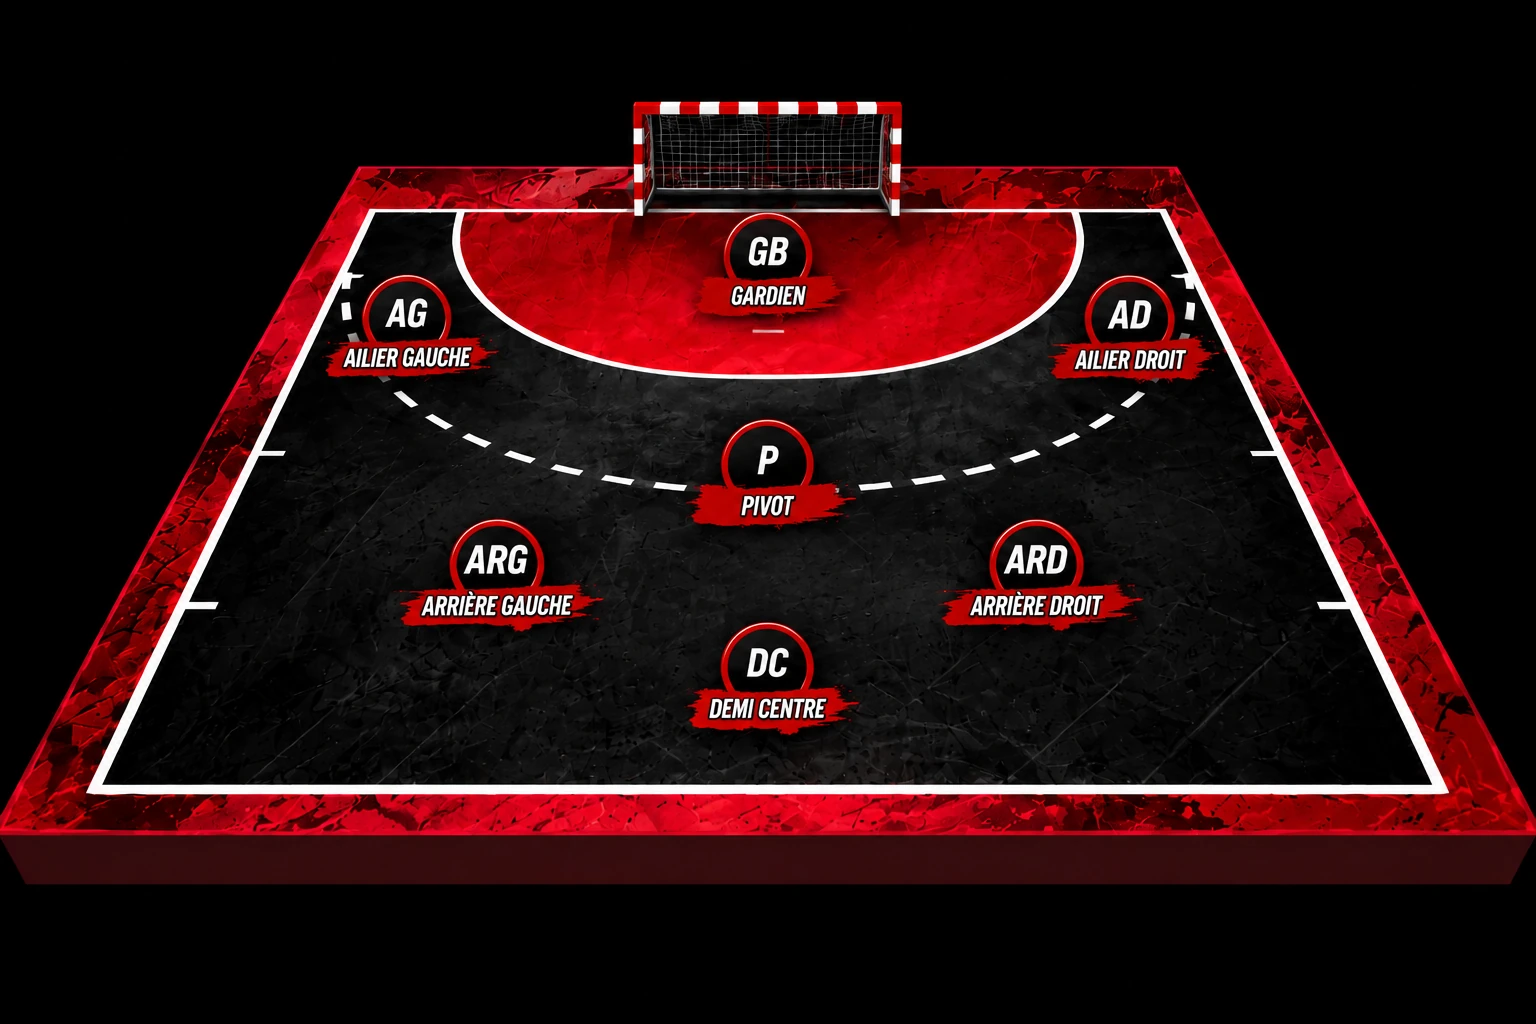
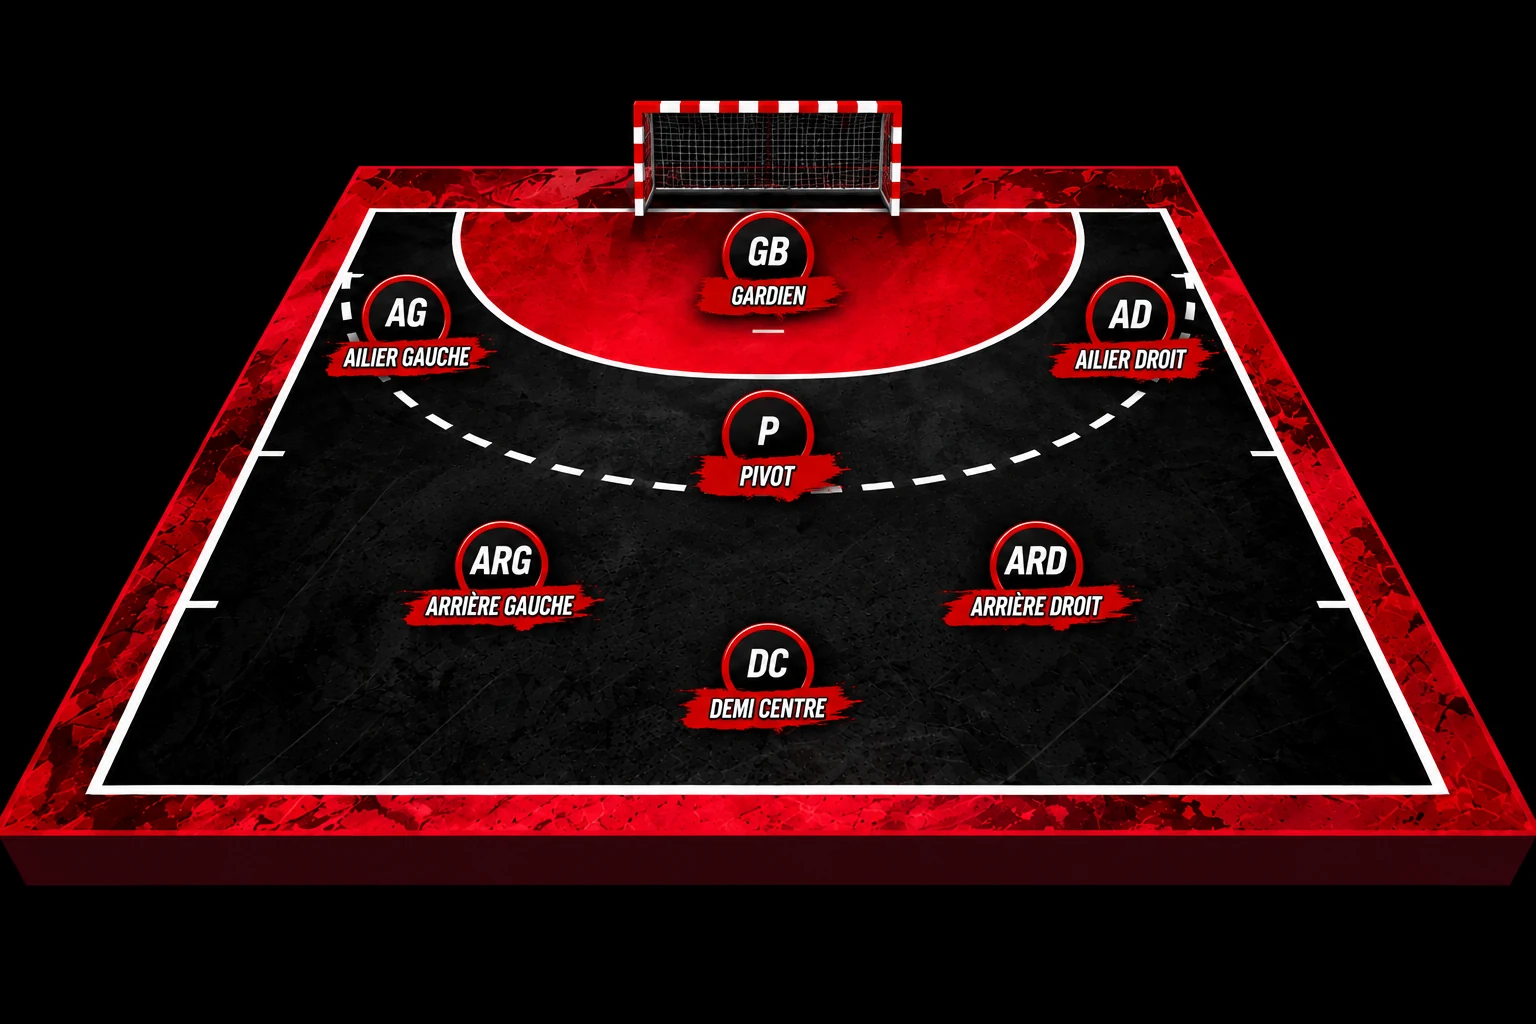
fix: utilise le terrain source pour les états rouges

diff --git a/seniors-masculins.html b/seniors-masculins.html
@@ -1,9 +1,9 @@
-<!doctype html><html lang="fr"><head><meta charset="utf-8"><meta name="viewport" content="width=device-width,initial-scale=1"><meta name="theme-color" content="#101012"><meta name="description" content="Retrouvez les horaires des Seniors masculins du PHB et accédez aux pages des équipes 1 et 2."><meta name="phb-build" content="c5e5ded"><link rel="canonical" href="https://ploufragan-handball.fr/seniors-masculins.html"><meta name="robots" content="index,follow,max-image-preview:large,max-snippet:-1,max-video-preview:-1"><meta property="og:locale" content="fr_FR"><meta property="og:type" content="website"><meta property="og:site_name" content="Ploufragan Handball"><meta property="og:title" content="Seniors masculins 1 et 2 | Ploufragan Handball"><meta property="og:description" content="Retrouvez les horaires des Seniors masculins du PHB et accédez aux pages des équipes 1 et 2."><meta property="og:url" content="https://ploufragan-handball.fr/seniors-masculins.html"><meta property="og:image" content="https://ploufragan-handball.fr/assets/og/seniors-masculins.jpg"><meta property="og:image:secure_url" content="https://ploufragan-handball.fr/assets/og/seniors-masculins.jpg"><meta property="og:image:type" content="image/jpeg"><meta property="og:image:width" content="1100"><meta property="og:image:height" content="1100"><meta property="og:image:alt" content="Seniors masculins du Ploufragan Handball"><meta name="twitter:card" content="summary_large_image"><meta name="twitter:title" content="Seniors masculins 1 et 2 | Ploufragan Handball"><meta name="twitter:description" content="Retrouvez les horaires des Seniors masculins du PHB et accédez aux pages des équipes 1 et 2."><meta name="twitter:image" content="https://ploufragan-handball.fr/assets/og/seniors-masculins.jpg"><link rel="sitemap" type="application/xml" href="https://ploufragan-handball.fr/sitemap.xml"><script type="application/ld+json">{"@context":"https://schema.org","@graph":[{"@type":"WebPage","@id":"https://ploufragan-handball.fr/seniors-masculins.html#webpage","name":"Seniors masculins 1 et 2 | Ploufragan Handball","url":"https://ploufragan-handball.fr/seniors-masculins.html","inLanguage":"fr-FR","isPartOf":{"@id":"https://ploufragan-handball.fr/#website"},"publisher":{"@id":"https://ploufragan-handball.fr/#organization"}},{"@type":"BreadcrumbList","@id":"https://ploufragan-handball.fr/seniors-masculins.html#breadcrumb","itemListElement":[{"@type":"ListItem","position":1,"name":"Accueil","item":"https://ploufragan-handball.fr/"},{"@type":"ListItem","position":2,"name":"Équipes","item":"https://ploufragan-handball.fr/equipes.html"},{"@type":"ListItem","position":3,"name":"Seniors masculins","item":"https://ploufragan-handball.fr/seniors-masculins.html"}]}]}</script><title>Seniors masculins 1 et 2 | Ploufragan Handball</title><link rel="icon" href="assets/favicon.ico" sizes="any"><link rel="icon" href="assets/favicon-48.png" type="image/png" sizes="48x48"><link rel="apple-touch-icon" href="assets/apple-touch-icon.png" sizes="180x180"><link rel="manifest" href="manifest.webmanifest"><link rel="preload" href="assets/fonts/barlow-condensed-italic-800.woff2" as="font" type="font/woff2" crossorigin><link rel="preload" href="assets/fonts/inter-normal-400-700.woff2" as="font" type="font/woff2" crossorigin><link rel="stylesheet" href="assets/fonts/fonts.css"><link rel="stylesheet" href="assets/site.css?v=20260927-position-previews"><noscript><style>@media(max-width:850px){.menu-toggle{display:none!important}.header-inner{flex-wrap:wrap}#navigation{position:static!important;display:flex!important;flex:1 0 100%;max-height:none!important;padding:8px 0 18px!important;flex-direction:column;align-items:stretch;gap:0}}</style></noscript><script src="assets/site.js?v=20260927-position-previews" defer></script></head><body data-page="seniors-masculins"><div class="site-texture" aria-hidden="true"></div><img class="watermark" src="assets/logo-phb.png" alt="" width="512" height="512" aria-hidden="true"><div class="scroll-progress" aria-hidden="true"></div><a class="skip-link" href="#contenu">Aller au contenu</a><header class="site-header"><div class="header-inner container"><a class="brand" href="/" aria-label="Ploufragan Handball, accueil"><img src="assets/logo-phb.png" alt="" width="60" height="60"><span>PLOUFRAGAN<small>HANDBALL</small></span></a><button class="menu-toggle" aria-controls="navigation" aria-expanded="false"><span class="menu-icon" aria-hidden="true"></span><span class="menu-label">Menu</span></button><nav id="navigation" aria-label="Navigation principale"><a href="/">Accueil</a><a href="club.html">Club</a><a href="equipes.html" aria-current="page">Équipes</a><a href="entrainements.html">Entraînements</a><a href="resultats.html">Résultats</a><a href="blog.html">Blog</a><a href="boutique.html">Boutique</a><a href="partenaires.html">Partenaires</a><a href="contact.html">Contact</a><a class="nav-registration" href="inscriptions.html">Inscriptions <span aria-hidden="true">↗</span></a></nav></div></header><main id="contenu"><header class="page-heading container" data-reveal><nav class="breadcrumb" aria-label="Fil d’Ariane"><a href="/">Accueil</a><span aria-hidden="true">/</span><a href="equipes.html">Équipes</a><span aria-hidden="true">/</span><span aria-current="page">Seniors masculins</span></nav><p class="eyebrow">PLOUFRAGAN HANDBALL <span>2026 / 2027</span></p><h1>SENIORS <em>MASCULINS</em></h1><p class="page-intro">Équipes 1 et 2</p></header><section class="container senior-landing after-heading"><div class="paper-panel team-training" data-reveal><div class="panel-title"><p class="eyebrow">SAISON 2026 / 2027</p><h2>ENTRAÎNEMENTS</h2></div><div class="table-scroll"><table class="schedule"><caption class="sr-only">Entraînements 2026–2027. F : filles, G : garçons.</caption><thead><tr><th>Catégorie</th><th>Séance 1</th><th>Séance 2</th></tr></thead><tbody><tr data-schedule-name="Seniors masculins"><th scope="row"><a href="seniors-masculins.html">Seniors masculins</a></th><td><div class="slot"><strong>Mardi <span>20h15–22h</span></strong><span class="venue">Hoëdic</span></div></td><td><div class="slot"><strong>Jeudi <span>20h30–22h</span></strong><span class="venue">Belle-Île</span></div></td></tr></tbody></table></div><p class="team-staff"><span>Coachs</span><strong>Jérôme Quemener et Guillaume Michel (« Guigui »)</strong></p><a class="text-link" href="entrainements.html">Planning complet ↗</a></div><div class="senior-landing-choices"><div class="senior-landing-heading"><p class="eyebrow">SAISON 2026 / 2027</p><h2>LES DEUX <em>ÉQUIPES</em></h2></div><div class="senior-choice-grid"><a class="youth-choice senior-choice" href="seniors-masculins-1.html" data-reveal><span class="youth-choice-age">01</span><span class="youth-choice-body"><small>D1M POULE 2</small><strong>Équipe 1</strong></span><span class="youth-choice-arrow" aria-hidden="true">↗</span></a><a class="youth-choice senior-choice" href="seniors-masculins-2.html" data-reveal><span class="youth-choice-age">02</span><span class="youth-choice-body"><small>D2M POULE 1</small><strong>Équipe 2</strong></span><span class="youth-choice-arrow" aria-hidden="true">↗</span></a></div></div><section class="section senior-position-showcase" data-player-position-showcase>
+<!doctype html><html lang="fr"><head><meta charset="utf-8"><meta name="viewport" content="width=device-width,initial-scale=1"><meta name="theme-color" content="#101012"><meta name="description" content="Retrouvez les horaires des Seniors masculins du PHB et accédez aux pages des équipes 1 et 2."><meta name="phb-build" content="583360d"><link rel="canonical" href="https://ploufragan-handball.fr/seniors-masculins.html"><meta name="robots" content="index,follow,max-image-preview:large,max-snippet:-1,max-video-preview:-1"><meta property="og:locale" content="fr_FR"><meta property="og:type" content="website"><meta property="og:site_name" content="Ploufragan Handball"><meta property="og:title" content="Seniors masculins 1 et 2 | Ploufragan Handball"><meta property="og:description" content="Retrouvez les horaires des Seniors masculins du PHB et accédez aux pages des équipes 1 et 2."><meta property="og:url" content="https://ploufragan-handball.fr/seniors-masculins.html"><meta property="og:image" content="https://ploufragan-handball.fr/assets/og/seniors-masculins.jpg"><meta property="og:image:secure_url" content="https://ploufragan-handball.fr/assets/og/seniors-masculins.jpg"><meta property="og:image:type" content="image/jpeg"><meta property="og:image:width" content="1100"><meta property="og:image:height" content="1100"><meta property="og:image:alt" content="Seniors masculins du Ploufragan Handball"><meta name="twitter:card" content="summary_large_image"><meta name="twitter:title" content="Seniors masculins 1 et 2 | Ploufragan Handball"><meta name="twitter:description" content="Retrouvez les horaires des Seniors masculins du PHB et accédez aux pages des équipes 1 et 2."><meta name="twitter:image" content="https://ploufragan-handball.fr/assets/og/seniors-masculins.jpg"><link rel="sitemap" type="application/xml" href="https://ploufragan-handball.fr/sitemap.xml"><script type="application/ld+json">{"@context":"https://schema.org","@graph":[{"@type":"WebPage","@id":"https://ploufragan-handball.fr/seniors-masculins.html#webpage","name":"Seniors masculins 1 et 2 | Ploufragan Handball","url":"https://ploufragan-handball.fr/seniors-masculins.html","inLanguage":"fr-FR","isPartOf":{"@id":"https://ploufragan-handball.fr/#website"},"publisher":{"@id":"https://ploufragan-handball.fr/#organization"}},{"@type":"BreadcrumbList","@id":"https://ploufragan-handball.fr/seniors-masculins.html#breadcrumb","itemListElement":[{"@type":"ListItem","position":1,"name":"Accueil","item":"https://ploufragan-handball.fr/"},{"@type":"ListItem","position":2,"name":"Équipes","item":"https://ploufragan-handball.fr/equipes.html"},{"@type":"ListItem","position":3,"name":"Seniors masculins","item":"https://ploufragan-handball.fr/seniors-masculins.html"}]}]}</script><title>Seniors masculins 1 et 2 | Ploufragan Handball</title><link rel="icon" href="assets/favicon.ico" sizes="any"><link rel="icon" href="assets/favicon-48.png" type="image/png" sizes="48x48"><link rel="apple-touch-icon" href="assets/apple-touch-icon.png" sizes="180x180"><link rel="manifest" href="manifest.webmanifest"><link rel="preload" href="assets/fonts/barlow-condensed-italic-800.woff2" as="font" type="font/woff2" crossorigin><link rel="preload" href="assets/fonts/inter-normal-400-700.woff2" as="font" type="font/woff2" crossorigin><link rel="stylesheet" href="assets/fonts/fonts.css"><link rel="stylesheet" href="assets/site.css?v=20260927-position-previews"><noscript><style>@media(max-width:850px){.menu-toggle{display:none!important}.header-inner{flex-wrap:wrap}#navigation{position:static!important;display:flex!important;flex:1 0 100%;max-height:none!important;padding:8px 0 18px!important;flex-direction:column;align-items:stretch;gap:0}}</style></noscript><script src="assets/site.js?v=20260927-position-previews" defer></script></head><body data-page="seniors-masculins"><div class="site-texture" aria-hidden="true"></div><img class="watermark" src="assets/logo-phb.png" alt="" width="512" height="512" aria-hidden="true"><div class="scroll-progress" aria-hidden="true"></div><a class="skip-link" href="#contenu">Aller au contenu</a><header class="site-header"><div class="header-inner container"><a class="brand" href="/" aria-label="Ploufragan Handball, accueil"><img src="assets/logo-phb.png" alt="" width="60" height="60"><span>PLOUFRAGAN<small>HANDBALL</small></span></a><button class="menu-toggle" aria-controls="navigation" aria-expanded="false"><span class="menu-icon" aria-hidden="true"></span><span class="menu-label">Menu</span></button><nav id="navigation" aria-label="Navigation principale"><a href="/">Accueil</a><a href="club.html">Club</a><a href="equipes.html" aria-current="page">Équipes</a><a href="entrainements.html">Entraînements</a><a href="resultats.html">Résultats</a><a href="blog.html">Blog</a><a href="boutique.html">Boutique</a><a href="partenaires.html">Partenaires</a><a href="contact.html">Contact</a><a class="nav-registration" href="inscriptions.html">Inscriptions <span aria-hidden="true">↗</span></a></nav></div></header><main id="contenu"><header class="page-heading container" data-reveal><nav class="breadcrumb" aria-label="Fil d’Ariane"><a href="/">Accueil</a><span aria-hidden="true">/</span><a href="equipes.html">Équipes</a><span aria-hidden="true">/</span><span aria-current="page">Seniors masculins</span></nav><p class="eyebrow">PLOUFRAGAN HANDBALL <span>2026 / 2027</span></p><h1>SENIORS <em>MASCULINS</em></h1><p class="page-intro">Équipes 1 et 2</p></header><section class="container senior-landing after-heading"><div class="paper-panel team-training" data-reveal><div class="panel-title"><p class="eyebrow">SAISON 2026 / 2027</p><h2>ENTRAÎNEMENTS</h2></div><div class="table-scroll"><table class="schedule"><caption class="sr-only">Entraînements 2026–2027. F : filles, G : garçons.</caption><thead><tr><th>Catégorie</th><th>Séance 1</th><th>Séance 2</th></tr></thead><tbody><tr data-schedule-name="Seniors masculins"><th scope="row"><a href="seniors-masculins.html">Seniors masculins</a></th><td><div class="slot"><strong>Mardi <span>20h15–22h</span></strong><span class="venue">Hoëdic</span></div></td><td><div class="slot"><strong>Jeudi <span>20h30–22h</span></strong><span class="venue">Belle-Île</span></div></td></tr></tbody></table></div><p class="team-staff"><span>Coachs</span><strong>Jérôme Quemener et Guillaume Michel (« Guigui »)</strong></p><a class="text-link" href="entrainements.html">Planning complet ↗</a></div><div class="senior-landing-choices"><div class="senior-landing-heading"><p class="eyebrow">SAISON 2026 / 2027</p><h2>LES DEUX <em>ÉQUIPES</em></h2></div><div class="senior-choice-grid"><a class="youth-choice senior-choice" href="seniors-masculins-1.html" data-reveal><span class="youth-choice-age">01</span><span class="youth-choice-body"><small>D1M POULE 2</small><strong>Équipe 1</strong></span><span class="youth-choice-arrow" aria-hidden="true">↗</span></a><a class="youth-choice senior-choice" href="seniors-masculins-2.html" data-reveal><span class="youth-choice-age">02</span><span class="youth-choice-body"><small>D2M POULE 1</small><strong>Équipe 2</strong></span><span class="youth-choice-arrow" aria-hidden="true">↗</span></a></div></div><section class="section senior-position-showcase" data-player-position-showcase>
       <div class="section-heading senior-position-heading"><div><p class="eyebrow">EFFECTIF SENIORS MASCULINS 1</p><h2>CHOISIS UN POSTE, <em>RÉVÈLE LES JOUEURS</em></h2></div><p>Clique sur un poste du terrain, puis sur chaque carte pour révéler les joueurs.</p></div>
       <div class="senior-position-experience">
         <div class="senior-position-court" data-reveal>
-          <img class="senior-position-base" src="assets/seniors-masculins/terrain.webp" alt="Terrain de handball avec les sept postes de jeu : gardien, ailiers, arrières, pivot et demi-centre" width="1536" height="1024" loading="lazy" decoding="async">
-          <img class="senior-position-overlay" data-position-overlay="gardien" src="assets/seniors-masculins/positions/gardien.webp" alt="" width="1536" height="1024" decoding="async" aria-hidden="true"><img class="senior-position-overlay" data-position-overlay="ailier-gauche" src="assets/seniors-masculins/positions/ailier-gauche.webp" alt="" width="1536" height="1024" decoding="async" aria-hidden="true"><img class="senior-position-overlay" data-position-overlay="ailier-droit" src="assets/seniors-masculins/positions/ailier-droit.webp" alt="" width="1536" height="1024" decoding="async" aria-hidden="true"><img class="senior-position-overlay" data-position-overlay="pivot" src="assets/seniors-masculins/positions/pivot.webp" alt="" width="1536" height="1024" decoding="async" aria-hidden="true"><img class="senior-position-overlay" data-position-overlay="arriere-gauche" src="assets/seniors-masculins/positions/arriere-gauche.webp" alt="" width="1536" height="1024" decoding="async" aria-hidden="true"><img class="senior-position-overlay" data-position-overlay="arriere-droit" src="assets/seniors-masculins/positions/arriere-droit.webp" alt="" width="1536" height="1024" decoding="async" aria-hidden="true"><img class="senior-position-overlay" data-position-overlay="demi-centre" src="assets/seniors-masculins/positions/demi-centre.webp" alt="" width="1536" height="1024" decoding="async" aria-hidden="true">
+          <img class="senior-position-base" src="assets/seniors-masculins/terrain.webp?v=20260927-exact" alt="Terrain de handball avec les sept postes de jeu : gardien, ailiers, arrières, pivot et demi-centre" width="1536" height="1024" loading="lazy" decoding="async">
+          <img class="senior-position-overlay" data-position-overlay="gardien" src="assets/seniors-masculins/positions/gardien.webp?v=20260927-exact" alt="" width="1536" height="1024" decoding="async" aria-hidden="true"><img class="senior-position-overlay" data-position-overlay="ailier-gauche" src="assets/seniors-masculins/positions/ailier-gauche.webp?v=20260927-exact" alt="" width="1536" height="1024" decoding="async" aria-hidden="true"><img class="senior-position-overlay" data-position-overlay="ailier-droit" src="assets/seniors-masculins/positions/ailier-droit.webp?v=20260927-exact" alt="" width="1536" height="1024" decoding="async" aria-hidden="true"><img class="senior-position-overlay" data-position-overlay="pivot" src="assets/seniors-masculins/positions/pivot.webp?v=20260927-exact" alt="" width="1536" height="1024" decoding="async" aria-hidden="true"><img class="senior-position-overlay" data-position-overlay="arriere-gauche" src="assets/seniors-masculins/positions/arriere-gauche.webp?v=20260927-exact" alt="" width="1536" height="1024" decoding="async" aria-hidden="true"><img class="senior-position-overlay" data-position-overlay="arriere-droit" src="assets/seniors-masculins/positions/arriere-droit.webp?v=20260927-exact" alt="" width="1536" height="1024" decoding="async" aria-hidden="true"><img class="senior-position-overlay" data-position-overlay="demi-centre" src="assets/seniors-masculins/positions/demi-centre.webp?v=20260927-exact" alt="" width="1536" height="1024" decoding="async" aria-hidden="true">
           <div class="senior-position-hotspots"><button class="senior-position-hotspot" type="button" data-player-position="gardien" style="--position-x:50%;--position-y:24.5%" aria-controls="senior-player-stage" aria-pressed="false" aria-label="Voir les joueurs au poste Gardien"><span aria-hidden="true">GB</span></button><button class="senior-position-hotspot" type="button" data-player-position="ailier-gauche" style="--position-x:26.4%;--position-y:30.5%" aria-controls="senior-player-stage" aria-pressed="false" aria-label="Voir les joueurs au poste Ailier gauche"><span aria-hidden="true">AG</span></button><button class="senior-position-hotspot" type="button" data-player-position="ailier-droit" style="--position-x:73.6%;--position-y:30.7%" aria-controls="senior-player-stage" aria-pressed="false" aria-label="Voir les joueurs au poste Ailier droit"><span aria-hidden="true">AD</span></button><button class="senior-position-hotspot" type="button" data-player-position="pivot" style="--position-x:50%;--position-y:42%" aria-controls="senior-player-stage" aria-pressed="false" aria-label="Voir les joueurs au poste Pivot"><span aria-hidden="true">P</span></button><button class="senior-position-hotspot" type="button" data-player-position="arriere-gauche" style="--position-x:32.6%;--position-y:54.7%" aria-controls="senior-player-stage" aria-pressed="false" aria-label="Voir les joueurs au poste Arrière gauche"><span aria-hidden="true">ARG</span></button><button class="senior-position-hotspot" type="button" data-player-position="arriere-droit" style="--position-x:67.4%;--position-y:54.7%" aria-controls="senior-player-stage" aria-pressed="false" aria-label="Voir les joueurs au poste Arrière droit"><span aria-hidden="true">ARD</span></button><button class="senior-position-hotspot" type="button" data-player-position="demi-centre" style="--position-x:50%;--position-y:64.8%" aria-controls="senior-player-stage" aria-pressed="false" aria-label="Voir les joueurs au poste Demi-centre"><span aria-hidden="true">DC</span></button></div>
         </div>
         <div class="senior-player-stage" id="senior-player-stage" data-player-stage tabindex="-1" aria-live="polite" aria-label="Cartes des joueurs sélectionnés">

diff --git a/build.py b/build.py
@@ -835,7 +835,7 @@ def senior_player_card_experience():
         )
         position_overlays.append(
             f'<img class="senior-position-overlay" data-position-overlay="{position_id}" '
-            f'src="assets/seniors-masculins/positions/{position_id}.webp" alt="" width="1536" height="1024" '
+            f'src="assets/seniors-masculins/positions/{position_id}.webp?v=20260927-exact" alt="" width="1536" height="1024" '
             f'decoding="async" aria-hidden="true">'
         )
         shortcuts.append(
@@ -869,7 +869,7 @@ def senior_player_card_experience():
       <div class="section-heading senior-position-heading"><div><p class="eyebrow">EFFECTIF SENIORS MASCULINS 1</p><h2>CHOISIS UN POSTE, <em>RÉVÈLE LES JOUEURS</em></h2></div><p>Clique sur un poste du terrain, puis sur chaque carte pour révéler les joueurs.</p></div>
       <div class="senior-position-experience">
         <div class="senior-position-court" data-reveal>
-          <img class="senior-position-base" src="assets/seniors-masculins/terrain.webp" alt="Terrain de handball avec les sept postes de jeu : gardien, ailiers, arrières, pivot et demi-centre" width="1536" height="1024" loading="lazy" decoding="async">
+          <img class="senior-position-base" src="assets/seniors-masculins/terrain.webp?v=20260927-exact" alt="Terrain de handball avec les sept postes de jeu : gardien, ailiers, arrières, pivot et demi-centre" width="1536" height="1024" loading="lazy" decoding="async">
           {"".join(position_overlays)}
           <div class="senior-position-hotspots">{"".join(hotspots)}</div>
         </div>
